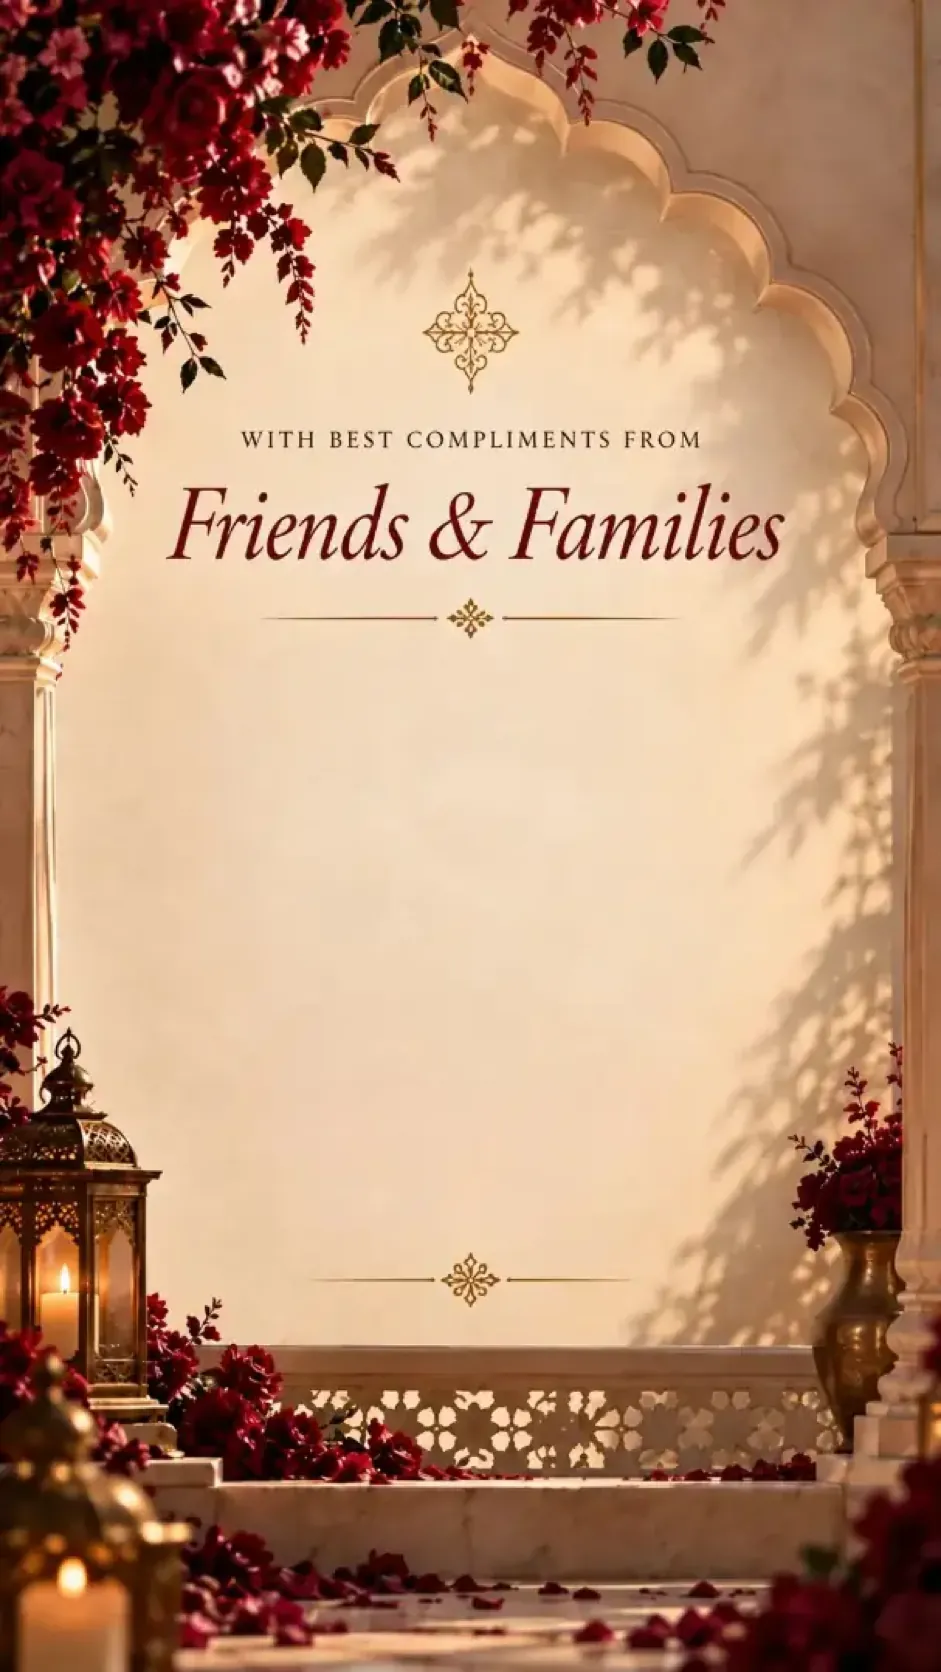
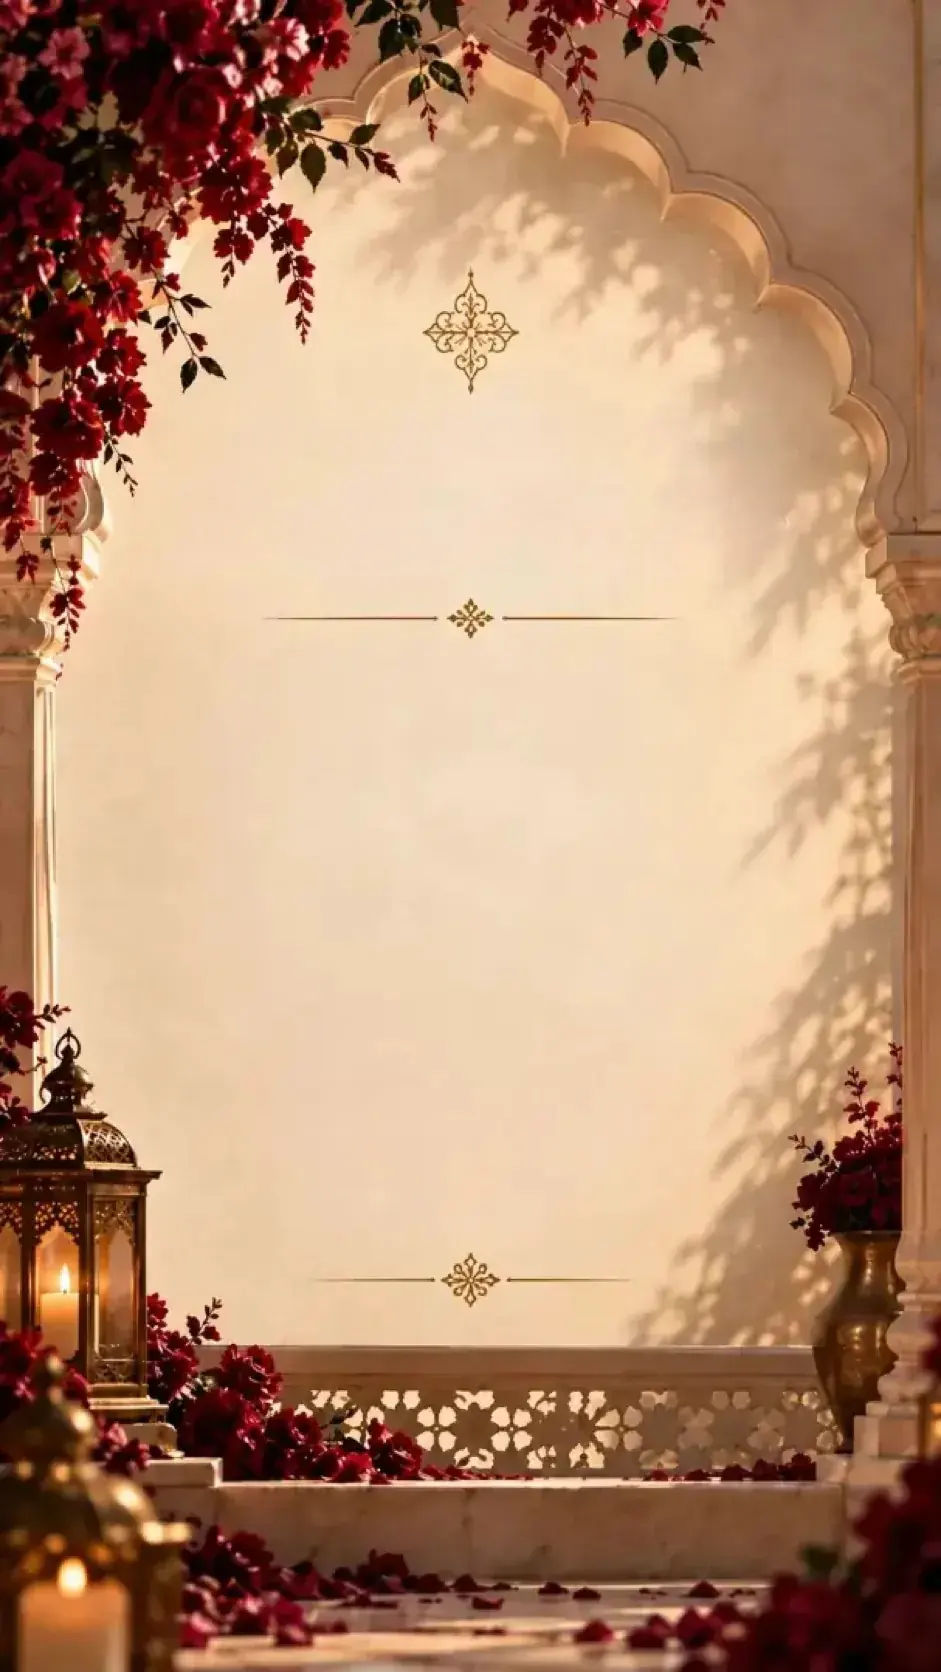
Restore the friends heading on the new artwork and fade the lines in.

Changed region(s): [[0.4315, 0.2488, 0.8321, 0.3421], [0.1849, 0.2799, 0.4315, 0.3421], [0.2465, 0.2488, 0.4006, 0.2799]]

diff --git a/src/motion.css b/src/motion.css
@@ -321,13 +321,22 @@
   animation: fade-in 1.1s ease 1.55s both;
 }
 
-/* Families: each group of names on its own */
-.families.is-ready .families__group {
-  animation: fade-in 1.15s ease both;
+/* Families: heading, then names, then the notes */
+.families.is-ready .families__kicker {
+  animation: fade-in 1.2s ease 0.2s both;
 }
-.families.is-ready .families__group:nth-child(1) { animation-delay: 0.35s; }
-.families.is-ready .families__group:nth-child(2) { animation-delay: 0.75s; }
-.families.is-ready .families__group:nth-child(3) { animation-delay: 1.15s; }
+.families.is-ready .families__title {
+  animation: bloom-in 1.6s cubic-bezier(0.16, 1, 0.3, 1) 0.4s both;
+}
+.families.is-ready .families__names {
+  animation: fade-in 1.35s ease 0.9s both;
+}
+.families.is-ready .families__rule {
+  animation: fade-in 1.1s ease 1.2s both;
+}
+.families.is-ready .families__notes {
+  animation: fade-in 1.3s ease 1.4s both;
+}
 
 /* RSVP: the form settles field by field */
 .rsvp.is-ready .rsvp__form > * {

diff --git a/src/pages/FamiliesScreen.css b/src/pages/FamiliesScreen.css
@@ -40,6 +40,37 @@
   animation: families-in 0.9s ease 0.15s both;
 }
 
+.families__kicker,
+.families__title {
+  position: absolute;
+  left: 50%;
+  z-index: 2;
+  margin: 0;
+  transform: translate(-50%, -50%);
+  text-align: center;
+  white-space: nowrap;
+  color: #5c1a22;
+}
+
+.families__kicker {
+  top: 26.4%;
+  font-family: 'Cinzel', serif;
+  font-weight: 500;
+  font-size: clamp(9px, 2.25cqi, 12px);
+  letter-spacing: 0.28em;
+  padding-left: 0.28em;
+  text-transform: uppercase;
+}
+
+.families__title {
+  top: 32%;
+  font-family: 'Cormorant Garamond', serif;
+  font-style: italic;
+  font-weight: 500;
+  font-size: clamp(34px, 8.6cqi, 48px);
+  line-height: 1;
+}
+
 .families__panel {
   position: absolute;
   inset: 0;

diff --git a/src/pages/FamiliesScreen.jsx b/src/pages/FamiliesScreen.jsx
@@ -102,6 +102,8 @@ export default function FamiliesScreen({ onContinue, onBack, active = true }) {
       <div className="families__bg" style={{ backgroundImage: `url("${BG_SRC}")` }} />
 
       <div className="families__layer">
+        <p className="families__kicker">With best compliments from</p>
+        <h1 className="families__title">Friends &amp; Families</h1>
         <div className="families__panel">
           <ol className="families__names">
             {NAMES.map((name) => (
